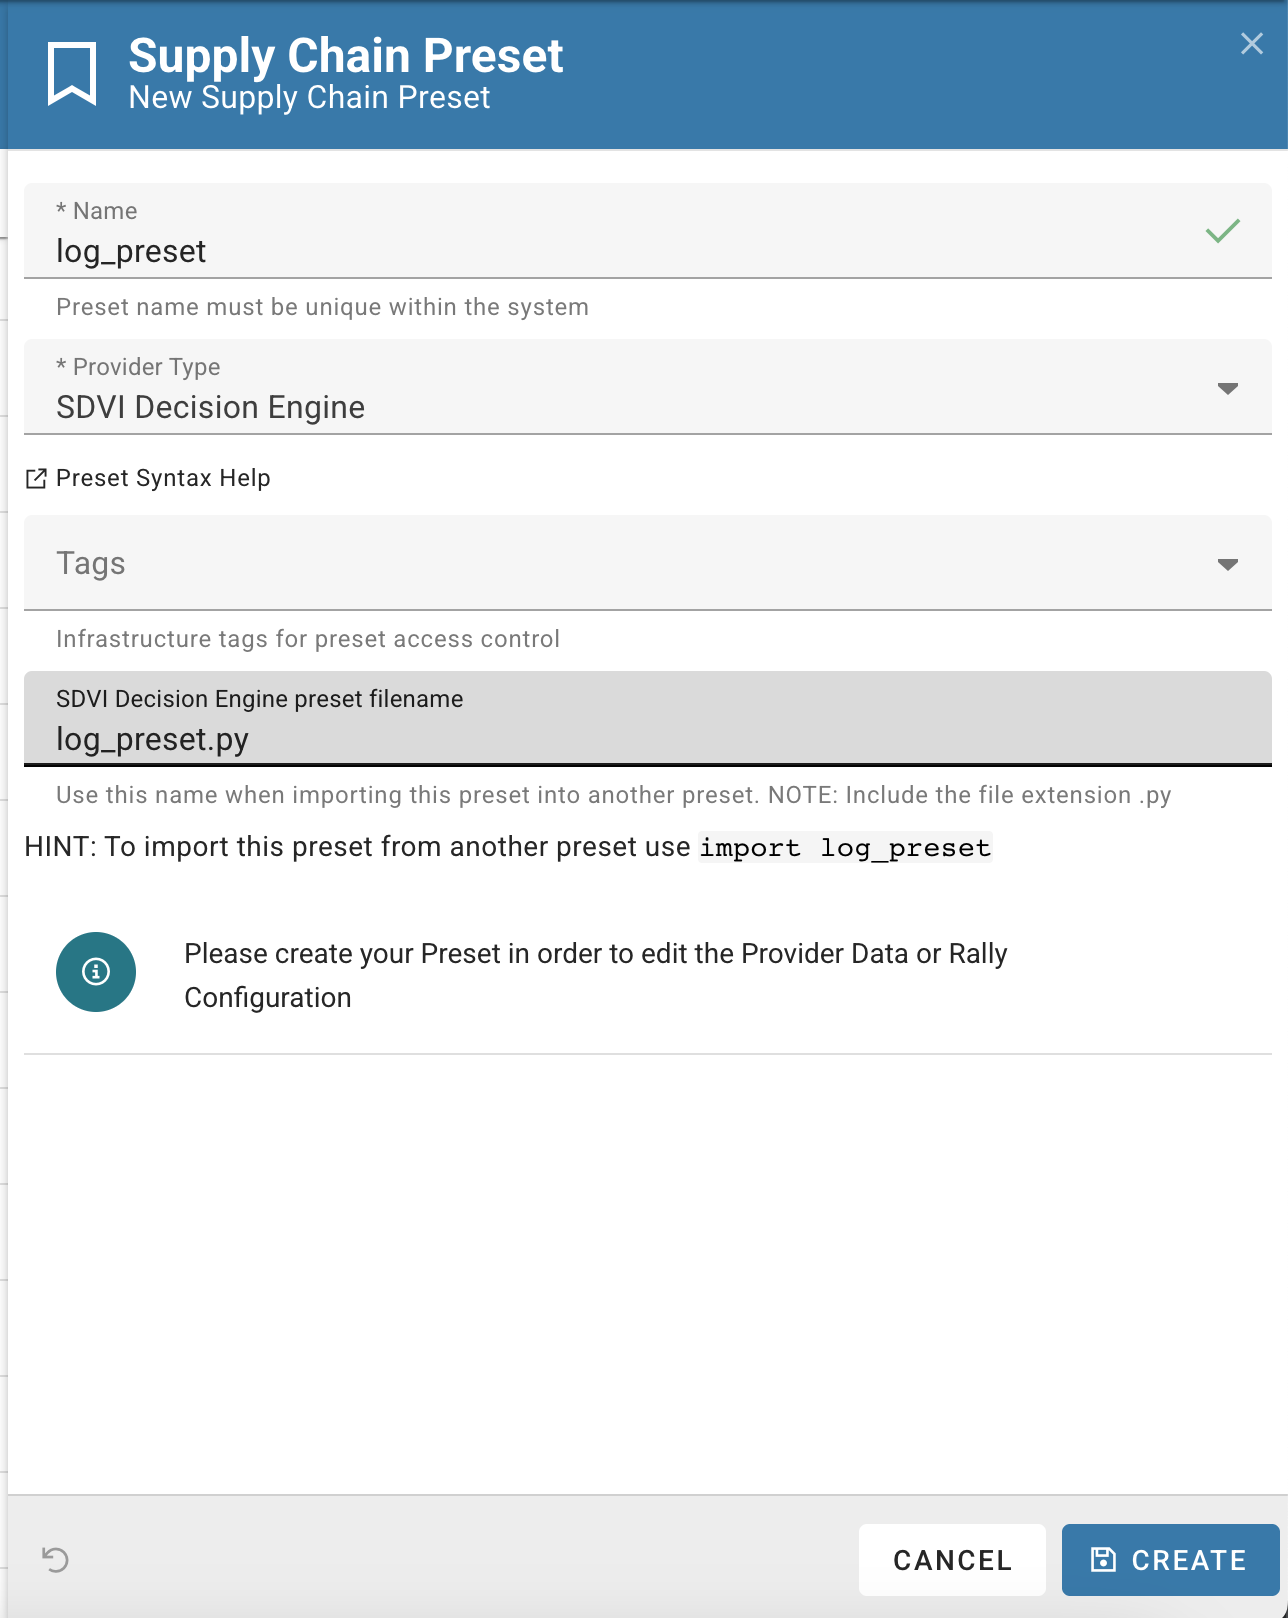
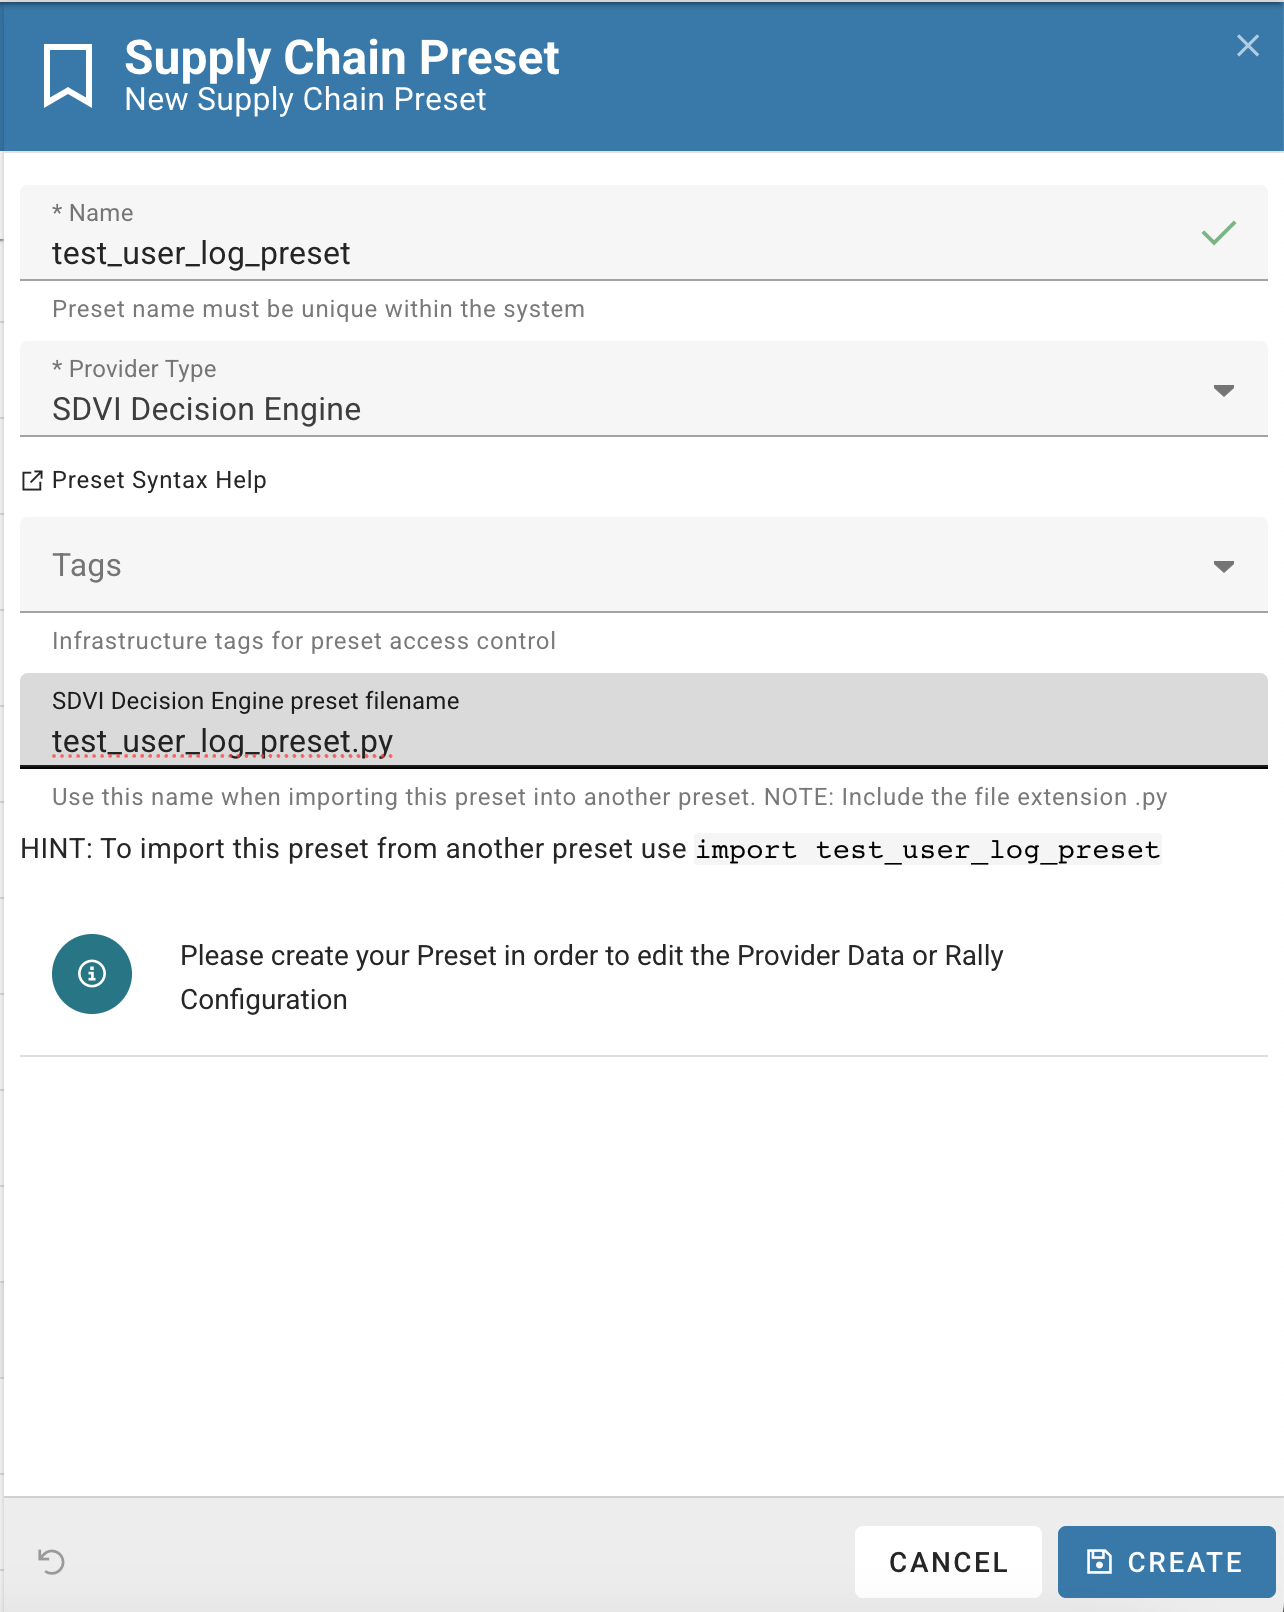
workbook

diff --git a/terraform/src/lambda_sns_proxy/main.py b/terraform/src/lambda_sns_proxy/main.py
@@ -1,26 +1,24 @@
 import json
 import os
+from pyexpat.errors import messages
+
 import boto3
 from botocore.exceptions import ClientError
 
 
 def lambda_handler(event, context):
     print(f"event: {event}")
-    topic_number = event.get('topic')
-    username = event.get('username')
+    body = json.loads(event.get('body','{}'))
+    topic_number = body.get('topic')
+    username = body.get('username')
+    message = json.loads(body.get('message', '{}'))
     if topic_number and username:
         sns_topic_prefix = os.environ.get('SNS_TOPIC_PREFIX')
         sns_topic_arn = f'{sns_topic_prefix}-topic-{topic_number}-{username}'
         print(f"topic_arn: {sns_topic_arn}")
+        print(f"payload: {json.dumps(message)}")
         sns_client = boto3.client('sns')
         try:
-            if isinstance(event, str):
-                try:
-                    message = json.loads(event)
-                except json.JSONDecodeError:
-                    message = event
-            else:
-                message = event
             response = sns_client.publish(
                 TopicArn=sns_topic_arn,
                 Message=json.dumps(message),

diff --git a/workbook/02-preset.md b/workbook/02-preset.md
@@ -14,5 +14,67 @@ and click on `Create`.
 ![Preset Menu](images/new_preset.png)
 
 fill the form with as in the the following screenshot, and click on `Create`.
-Name the preset as you wish, but remember it, as we will use it in the next steps and **set SDVI Decision Engine as the provider type**. 
+Name the preset as you wish, but remember it, as we will use it in the next steps and **set SDVI Decision Engine as the provider type**.
+
+<span style="text-decoration:underline">**N.B. Keep a consistent naming convention, always prefix your username across all resources you're going to create, this will help the management and cleanup of the silo**</span>
 ![Preset Menu](images/create_preset.png)
+
+Then open the preset editor by clicking on the corrsponding `Open Preset Editor` button.
+![Preset Menu](images/edit_preset.png)
+
+Fill the editor with the following code:
+```python
+import json
+
+def eval_main(context):
+  print('Start log preset')
+  data = context.get('dynamicPresetData')
+  message = json.dumps(data) if isinstance(data, dict) else repr(data)
+  print("data:" + message)  
+  return True
+```
+
+![Preset Menu](images/log_preset.png)
+
+Then save the preset by clicking on the `Save` button.
+
+Create the rule to activate the preset.
+
+Activate the `Rule` menu item on the left, and click on the green `+` button.
+Then fill the for with the proper values, and click on `Create`.
+
+IAM Role is the same already used for the RSLs (`arn:aws:iam::117342603894:role/sdvi-partner-silo-dev-role`)
+
+Topic ARN follow the pattern `arn:aws:sns:eu-west-1:117342603894:sdvi-partner-silo-topic-1-{username}`
+
+![Create Rule](images/log_preset_rule.png)
+
+From the left hand menu select the `Notification Presets` menu item and select `create` after ellipsis expansion on the upper right corner.
+
+![Create Notification](images/create_notification.png)
+
+Fill the form with the proper values and click on `Save`:
+
+![Notification Preset](images/notification_preset.png)
+
+## Test it
+The preset is now ready to be tested.
+We're going to use the API to send a message to the SNS topic.
+
+<pre>
+curl -X POST https://g7j1jsfupb.execute-api.eu-west-1.amazonaws.com/master/sns-proxy \
+-H "Content-Type: application/json" \
+-H "x-api-key: SaqpTEgFlx2u0YFkWRnMj6zGircfmn0x4p7jwgp1" \
+-d '{
+   "message":"{\"msg\":\"hello\"}",
+   "topic":1,
+   "username":"test_user"
+}'</pre>
+
+To check the result, activate the `Jobs` menu item on the left hand menu under the `Monitoring` section, and filter results by preset name.
+
+Preset is executed anonymously, so you won't see any asset on the `Run on Asset` column.
+
+Clicking on the status icon will show the details of the execution.
+
+![Monitor job](images/monitor_job.png)

diff --git a/workbook/00-architecture.md b/workbook/00-architecture.md
@@ -45,11 +45,27 @@ Two SNS topics are created for each user, to send or receive notifications to an
   - {username}_topic_2
 
 It's possible to trigger the publication of a message to the SNS topic by creating a notification preset or invoking the https://g7j1jsfupb.execute-api.eu-west-1.amazonaws.com/master/sns-proxy API.
-It accept a POST request with these two request parameters:
-  - `topic`: the topic numbere to trigger (1 or 2)
-  - `username`: the username as it appears in the bucket path
-
-body of the request is the json message to send to the topic.
+It accept a POST request with a json body containing the message, the topic and the username.
+<ins>Example:</ins>
+```json
+{
+   "message":"{\"msg\":\"hello\"}",
+   "topic":1,
+   "username":"test_user"
+}
+```
 
 Authentication is by api key : `SaqpTEgFlx2u0YFkWRnMj6zGircfmn0x4p7jwgp1`
+
+## Inline help resources and documentation
+
+Upper right menu has a link to the Rally documentation, which is an invaluable collection of articles and guides to help users understand and use Rally.
+It really lacks an organization, it takes some times to get used to it.
+
+![Inline help](./images/inline_help.png)
+
+* Rally Technical Documentation: mostly for providers documentation
+* Rally UI Documentation: accessible from the first link of the former pointer, related to the gateway widgets and workorder forms
+* Rally API Documentation: related to the API endpoints and their usage, principal use is for integrating Rally with third party systems. SDK is effectively a wrapper around these APIs.
+* Rally Customer Documentation: for the end users, to understand the Rally UI and its features
 

diff --git a/README.md b/README.md
@@ -27,7 +27,7 @@ This document describes the steps to setup a partner silo in SDVI Rally.
 IAM role to assign to Rally resources is:
   - `arn:aws:iam::117342603894:role/sdvi-partner-silo-dev-role`
 SNS topics are created for each user:
-  - `arn:aws:sns:eu-west-1:117342603894:topic_1_{username}`
-  - `arn:aws:sns:eu-west-1:117342603894:topic_2_{username}`
+  - `arn:aws:sns:eu-west-1:117342603894:sdvi-partner-silo-topic-1-{username}`
+  - `arn:aws:sns:eu-west-1:117342603894:sdvi-partner-silo-topic-2-{username}`
 SNS topic to forward S3Notifications to SDVI, per user filtering is performed by Rally at RSL level:
   - `arn:aws:sns:eu-west-1:117342603894:sdvi-notify-sdvi-partner-silo-storage`
